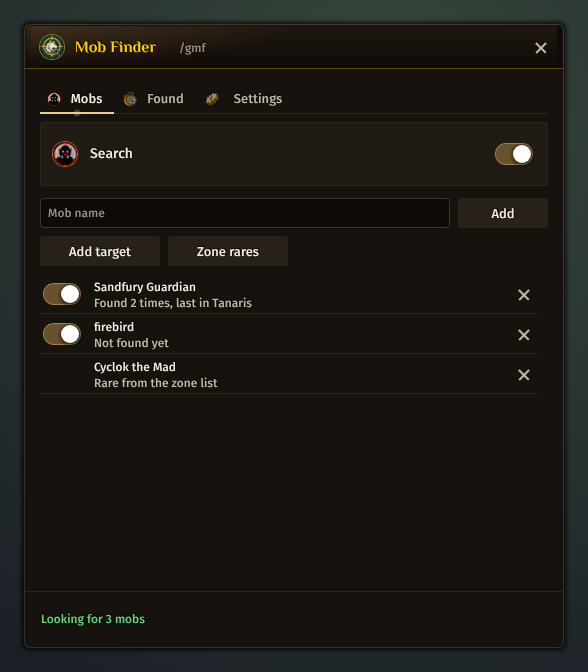
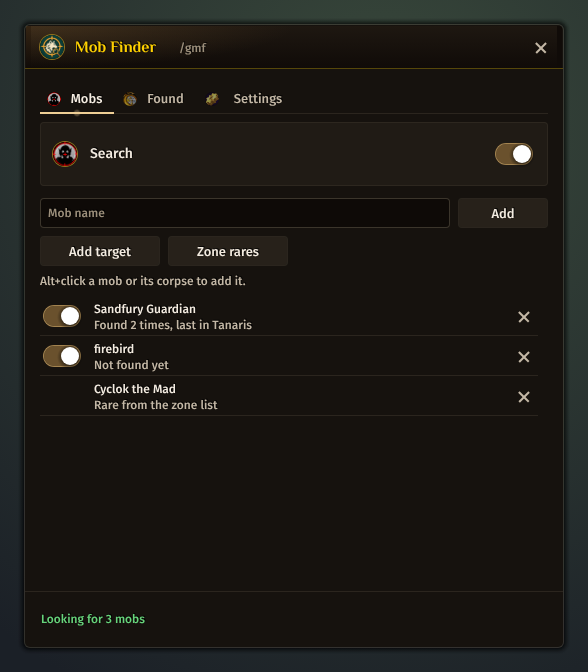
Mob Finder: add a mob with Alt+click or from the target menu
Alt+click on a mob or its corpse puts it on the list by its whole name;
the target and focus menus get Look for this mob / Stop looking. Both
answer with a notice and Undo, and the mob just added does not alert.

Closes #312

Claude-Session: https://claude.ai/code/session_01HDZ3VYS7xVHKFLv8HKqKAC

Changed region(s): [[0.0612, 0.4062, 0.4286, 0.625], [0.8878, 0.4375, 0.9184, 0.5938]]

diff --git a/AGENTS.md b/AGENTS.md
@@ -57,7 +57,7 @@ Gulli Toolkit is a set of our own small World of Warcraft addons for WoW Forever
 
 ### Gulli-MobFinder
 
-- `Gulli-MobFinder.toc` loads `Locales.lua`, `Data.lua`, `Core.lua`, `Skin.lua`, `UI.lua` (`/gmf`). `GulliMobFinderDB`: `enabled`, `names`, `mobs` (lower-case name -> `off`, `exact`, `count`, `zone`, `at`, read through `ns.Info`), `ids` (npc id -> name, from the zone rares), `history` (at most `ns.HISTORY_MAX`), `key`, `cardPoint`, and the three settings in `DEFAULTS` (`sound`, `repeatSound`, `flash`). The window has only those and the Target key (owner's decision of 2026-11-18): everything else is fixed in `Core.lua` (`ns.INTERVAL` 2 seconds, `ns.COOLDOWN` 60, `ns.CARD_SECONDS` 30), and a setting of an older version is in `GONE`, dropped on load. A new behaviour gets a fixed value there, not a switch; a switch needs the owner's word. `ns.Scan` reads visible nameplates (`NAME_PLATE_UNIT_ADDED` and the poll), the target, mouseover and the group's targets, and the minimap rare markers. It skips secret names (`issecretvalue`), players, player-controlled units and mobs another player tagged. A mob alerts again only after it was out of sight and `ns.COOLDOWN` passed. A typed name matches as a part; a mob added from the target is `exact`. The hub's switch stops it at once through `ns.Pause`. `Data.lua` (`ns.RARES`: area id -> rares) is generated by `tools/mobfinder/build_data.py` from QuestieDB; never edit it by hand. Rares match by npc id (`ns.NpcID`) and zones by `C_Map.GetAreaInfo` names, so they work in every client language. It never targets on its own: the card's `GulliMobFinderTarget` is a secure button with a `/targetexact` macro, set only out of combat (a find in combat waits for `PLAYER_REGEN_ENABLED`), and the Target key binds to it with `SetOverrideBindingClick`. Finds are always shared on the prefix `GulliMF` (`F1\tname\tmap\tx\ty`); the format is a contract between versions: add a new message type, never change this one. 
+- `Gulli-MobFinder.toc` loads `Locales.lua`, `Data.lua`, `Core.lua`, `Skin.lua`, `UI.lua` (`/gmf`). `GulliMobFinderDB`: `enabled`, `names`, `mobs` (lower-case name -> `off`, `exact`, `count`, `zone`, `at`, read through `ns.Info`), `ids` (npc id -> name, from the zone rares), `history` (at most `ns.HISTORY_MAX`), `key`, `cardPoint`, and the three settings in `DEFAULTS` (`sound`, `repeatSound`, `flash`). The window has only those and the Target key (owner's decision of 2026-11-18): everything else is fixed in `Core.lua` (`ns.INTERVAL` 2 seconds, `ns.COOLDOWN` 60, `ns.CARD_SECONDS` 30), and a setting of an older version is in `GONE`, dropped on load. A new behaviour gets a fixed value there, not a switch; a switch needs the owner's word. `ns.Scan` reads visible nameplates (`NAME_PLATE_UNIT_ADDED` and the poll), the target, mouseover and the group's targets, and the minimap rare markers. It skips secret names (`issecretvalue`), players, player-controlled units and mobs another player tagged. A mob alerts again only after it was out of sight and `ns.COOLDOWN` passed. A typed name matches as a part; a mob added from the target is `exact`. Mobs are added from the game world through `ns.Addable`/`ns.AddName`: Alt+click on a mob or its corpse (`ns.AltClick` on `PLAYER_TARGET_CHANGED`, only while the target is the mouseover, so Tab never adds) and **Look for this mob** in the target and focus menus (`ns.UnitMenu` through `Menu.ModifyMenu`), both answered by an `S.Toast` with Undo (`ns.OnQuick`); the mob just added does not alert at once. A new way to add goes through the same two functions, with a test. The hub's switch stops it at once through `ns.Pause`. `Data.lua` (`ns.RARES`: area id -> rares) is generated by `tools/mobfinder/build_data.py` from QuestieDB; never edit it by hand. Rares match by npc id (`ns.NpcID`) and zones by `C_Map.GetAreaInfo` names, so they work in every client language. It never targets on its own: the card's `GulliMobFinderTarget` is a secure button with a `/targetexact` macro, set only out of combat (a find in combat waits for `PLAYER_REGEN_ENABLED`), and the Target key binds to it with `SetOverrideBindingClick`. Finds are always shared on the prefix `GulliMF` (`F1\tname\tmap\tx\ty`); the format is a contract between versions: add a new message type, never change this one. 
 
 ### Gulli-GroupBuffs
 

diff --git a/docs/mobfinder/README.md b/docs/mobfinder/README.md
@@ -8,6 +8,7 @@ Type the mobs you look for. When one of them shows its nameplate, you hear a sou
 
 ## Features
 
+- **Add a mob with one click.** Hold **Alt** and click a mob or its corpse: it goes on the list, and a notice with **Undo** shows. Or right-click the target's portrait and choose **Look for this mob**.
 - **A list of mobs.** Type a name, take your target, or press **Zone rares** to add every rare of the zone you are in. A part of the name is enough, and the case does not matter (also in Russian); a mob taken from your target is looked for by its whole name. Each mob on the **Mobs** page has its own switch and shows how often and where it was found.
 - **Zone rares in every language.** Rares are found by their game id, so the list works in any client language.
 - **A card when a mob is found.** It shows the portrait, name, level and rare or elite, with your Target key on the button. **Target** takes the mob as your target, **Tell group** writes where it is in the group chat, **Pin** puts a pin on the map. The card closes itself after 30 seconds. Place it in **Frames on screen** in `/gulli`.
